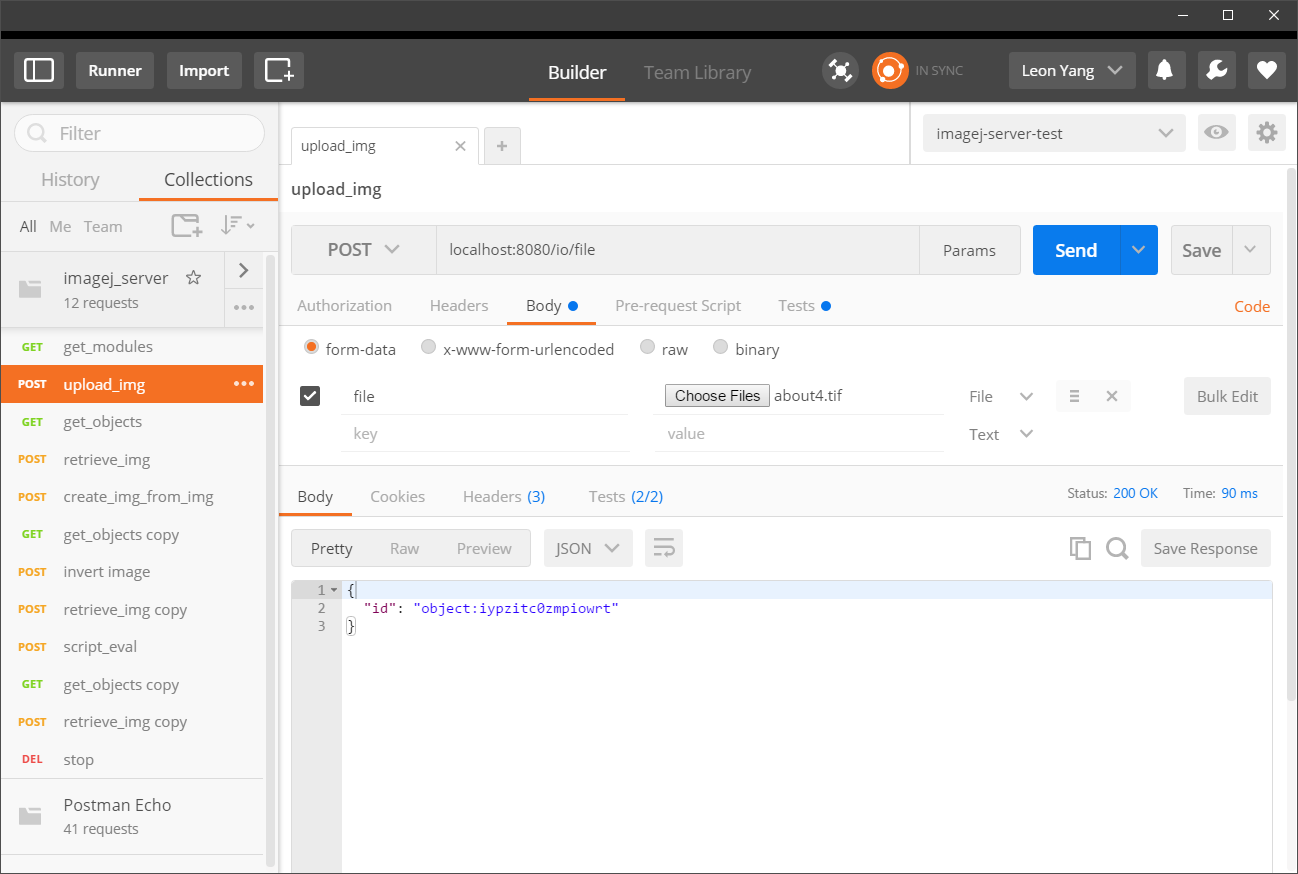
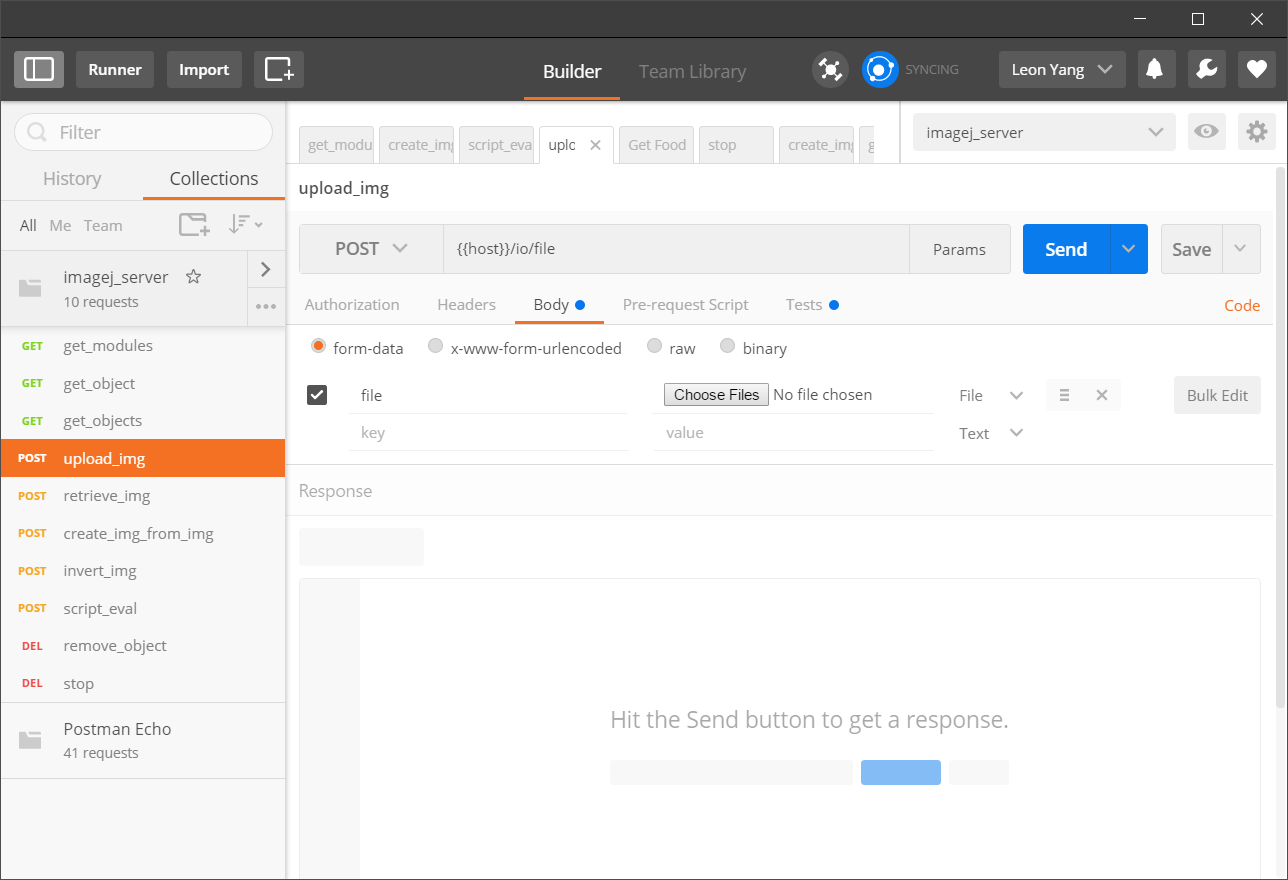
Improve postman requests

diff --git a/clients/postman/README.md b/clients/postman/README.md
@@ -6,12 +6,12 @@ A [Postman collection](https://www.getpostman.com/docs/collections) is a group o
 
 ## Usage
 
-First, install Postman. Once inside, import the collection by clicking the **Import** button at the top left corner. Then go to the **Body** tab of the `upload_img` request, and choose a file for upload. You can press `ctrl + s` to save this request so that you don't have to repeat this process next time.
+Once installed Postman, import the collection and environment by clicking the **Import** button at the top left corner. Then go to the **Body** tab of the `upload_img` request, and choose a file for upload. You can press `ctrl + s` to save this request so that you don't have to repeat this process next time.
 
-If you already have an imagej-server instance running, then you are ready to go! Try click on different requests and hit the **Send** button to see the results. Notice that some requests are chained so that you need to run one before another. For example, you need to run `upload_img` before running `retrieve_img` or `create_img_from_img`.
-
-The collection is actually organized such that when run in order, they will be properly chained and all should produce `200` status codes. To do this more efficiently, you can click the **Runner** button next to the **Import**, and hit **Start Test** on the `imagej_server` collection you just imported. This will not show results from individual requests, but will show some statistics and whether they pass tests.
+Then launch an imagej-server instance. Try clicking on different requests and hit the **Send** button to see the results. Notice that some requests are chained so that one needs to be run before another. For example, you need to run `upload_img` before `retrieve_img` or `create_img_from_img`.
 
 ![Postman screenshot](screenshot.png?raw=true "Example Postman interface with imagej_server collection")
+
+The collection is actually setup as an integration test suit. You can click the **Runner** button next to the **Import**, and hit **Start Test** on the `imagej_server` collection with `imagej_server` as the environment. This will not show results from individual requests, but will show some statistics and whether they pass tests.
 
 After getting more familiar with Postman, you can try to create your own requests. Using global variables in the **Tests** tab will be very helpful for handling random object IDs. Checkout my sample requests and [this document](https://www.getpostman.com/docs/environments) for more details.
